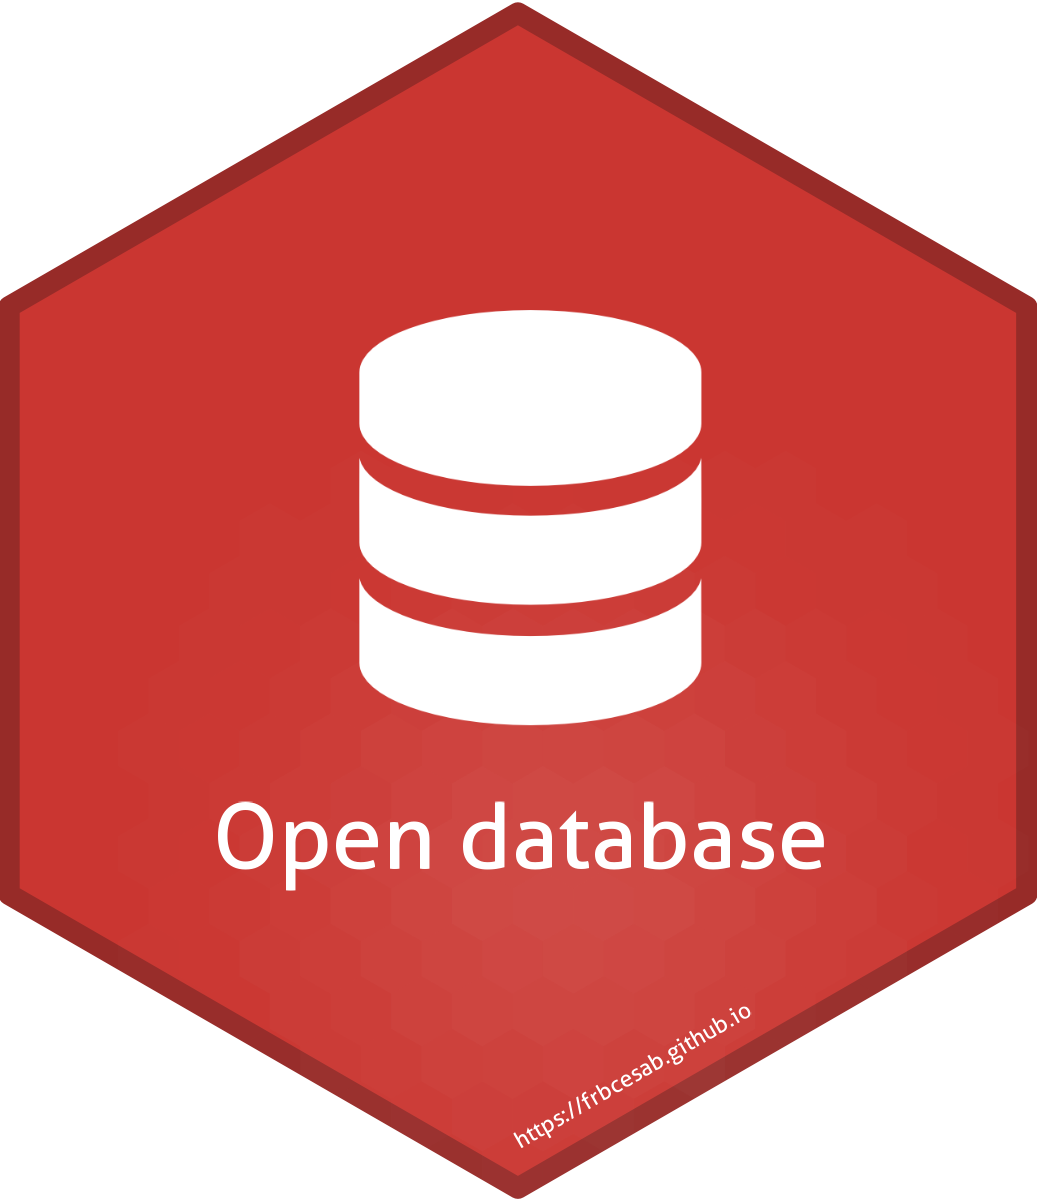
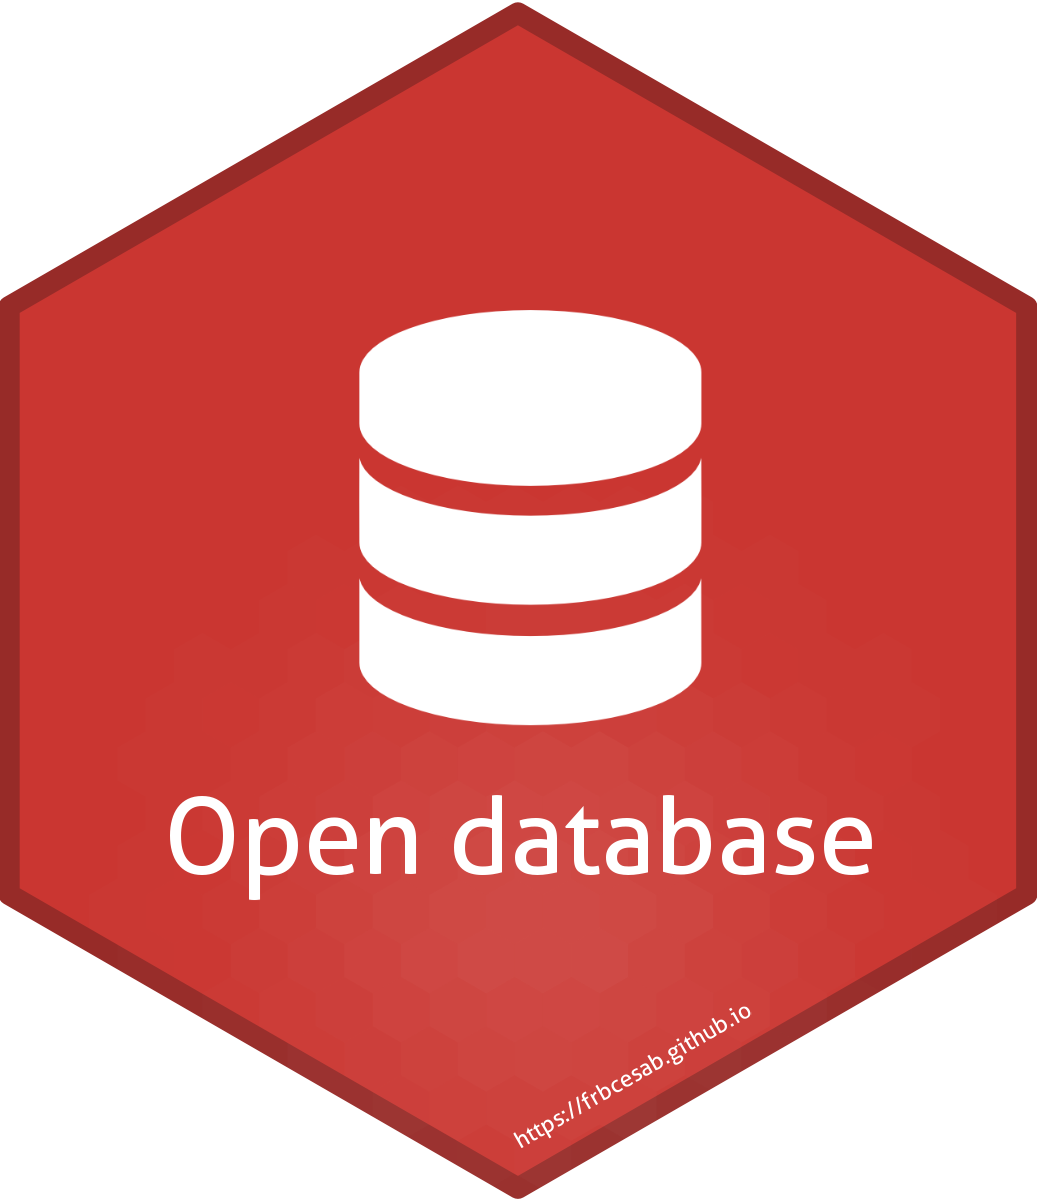
Add default sticker

Changed region(s): [[0.1543, 0.6475, 0.864, 0.74]]

diff --git a/content/post/gaspar.md b/content/post/gaspar.md
@@ -2,6 +2,7 @@
 date: "2013-04-30"
 title: GASPAR Database
 subtitle: "A global distribution of tropical reef fishes"
+image: /img/database-sticker.png
 contact:
   name: Valeriano Parravicini
   url: "http://www.criobe.pf/pro/personnel/chercheurs-et-enseignants-chercheurs/valeriano-parravicini"

diff --git a/content/post/irbas.md b/content/post/irbas.md
@@ -2,6 +2,7 @@
 date: "2017-01-03"
 title: IRBAS Database
 subtitle: "Intermittent Rivers Biodiversity Analysis and Synthesis"
+image: /img/database-sticker.png
 available:
   website: "http://irbas.inrae.fr/contribute-n-and-access-data/how-explore-irbas-database"
 contact:

diff --git a/content/post/conR.md b/content/post/conR.md
@@ -2,6 +2,7 @@
 date: "2016-10-31"
 title: ConR
 subtitle: Computes parameters used in preliminary assessment of conservation status
+image: /img/rpackage-sticker.png
 available:
   cran: "https://cran.r-project.org/package=ConR"
   github: "https://github.com/gdauby/conR"

diff --git a/content/post/raatd.md b/content/post/raatd.md
@@ -2,6 +2,7 @@
 date: "2020-03-18"
 title: RAATD Database
 subtitle: "Retrospective Analysis of Antarctic Tracking Data"
+image: /img/database-sticker.png
 available:
   website: "https://data.aad.gov.au/metadata/records/SCAR_EGBAMM_RAATD_2018_Standardised"
 contact:

diff --git a/content/post/rainbio.md b/content/post/rainbio.md
@@ -2,6 +2,7 @@
 date: "2016-11-07"
 title: RAINBIO Database
 subtitle: "A mega-database of tropical African vascular plants distributions"
+image: /img/database-sticker.png
 available:
   website: "http://rainbio.cesab.org/index.html#dataset"
 contact:

diff --git a/content/post/funrar.md b/content/post/funrar.md
@@ -2,6 +2,7 @@
 date: "2016-07-15"
 title: funrar
 subtitle: An R package to characterize functional rarity
+image: /img/rpackage-sticker.png
 available:
   cran: "https://cran.r-project.org/package=funrar"
   github: "https://github.com/Rekyt/funrar"

diff --git a/content/post/functionalwebs.md b/content/post/functionalwebs.md
@@ -2,6 +2,7 @@
 date: "2018-03-16"
 title: FUNCTIONALWEBS Database
 subtitle: "Functional traits of aquatic invertebrates in tank bromeliads"
+image: /img/database-sticker.png
 available:
   website: "https://doi.org/10.5063/F1VD6WMF"
 contact:

diff --git a/content/post/algaeClassify.md b/content/post/algaeClassify.md
@@ -2,6 +2,7 @@
 date: "2019-05-20"
 title: algaeClassify
 subtitle: An R package to determine phytoplankton functional groups
+image: /img/database-sticker.png
 available:
   cran: "https://cran.r-project.org/package=algaeClassify"
 contact:
